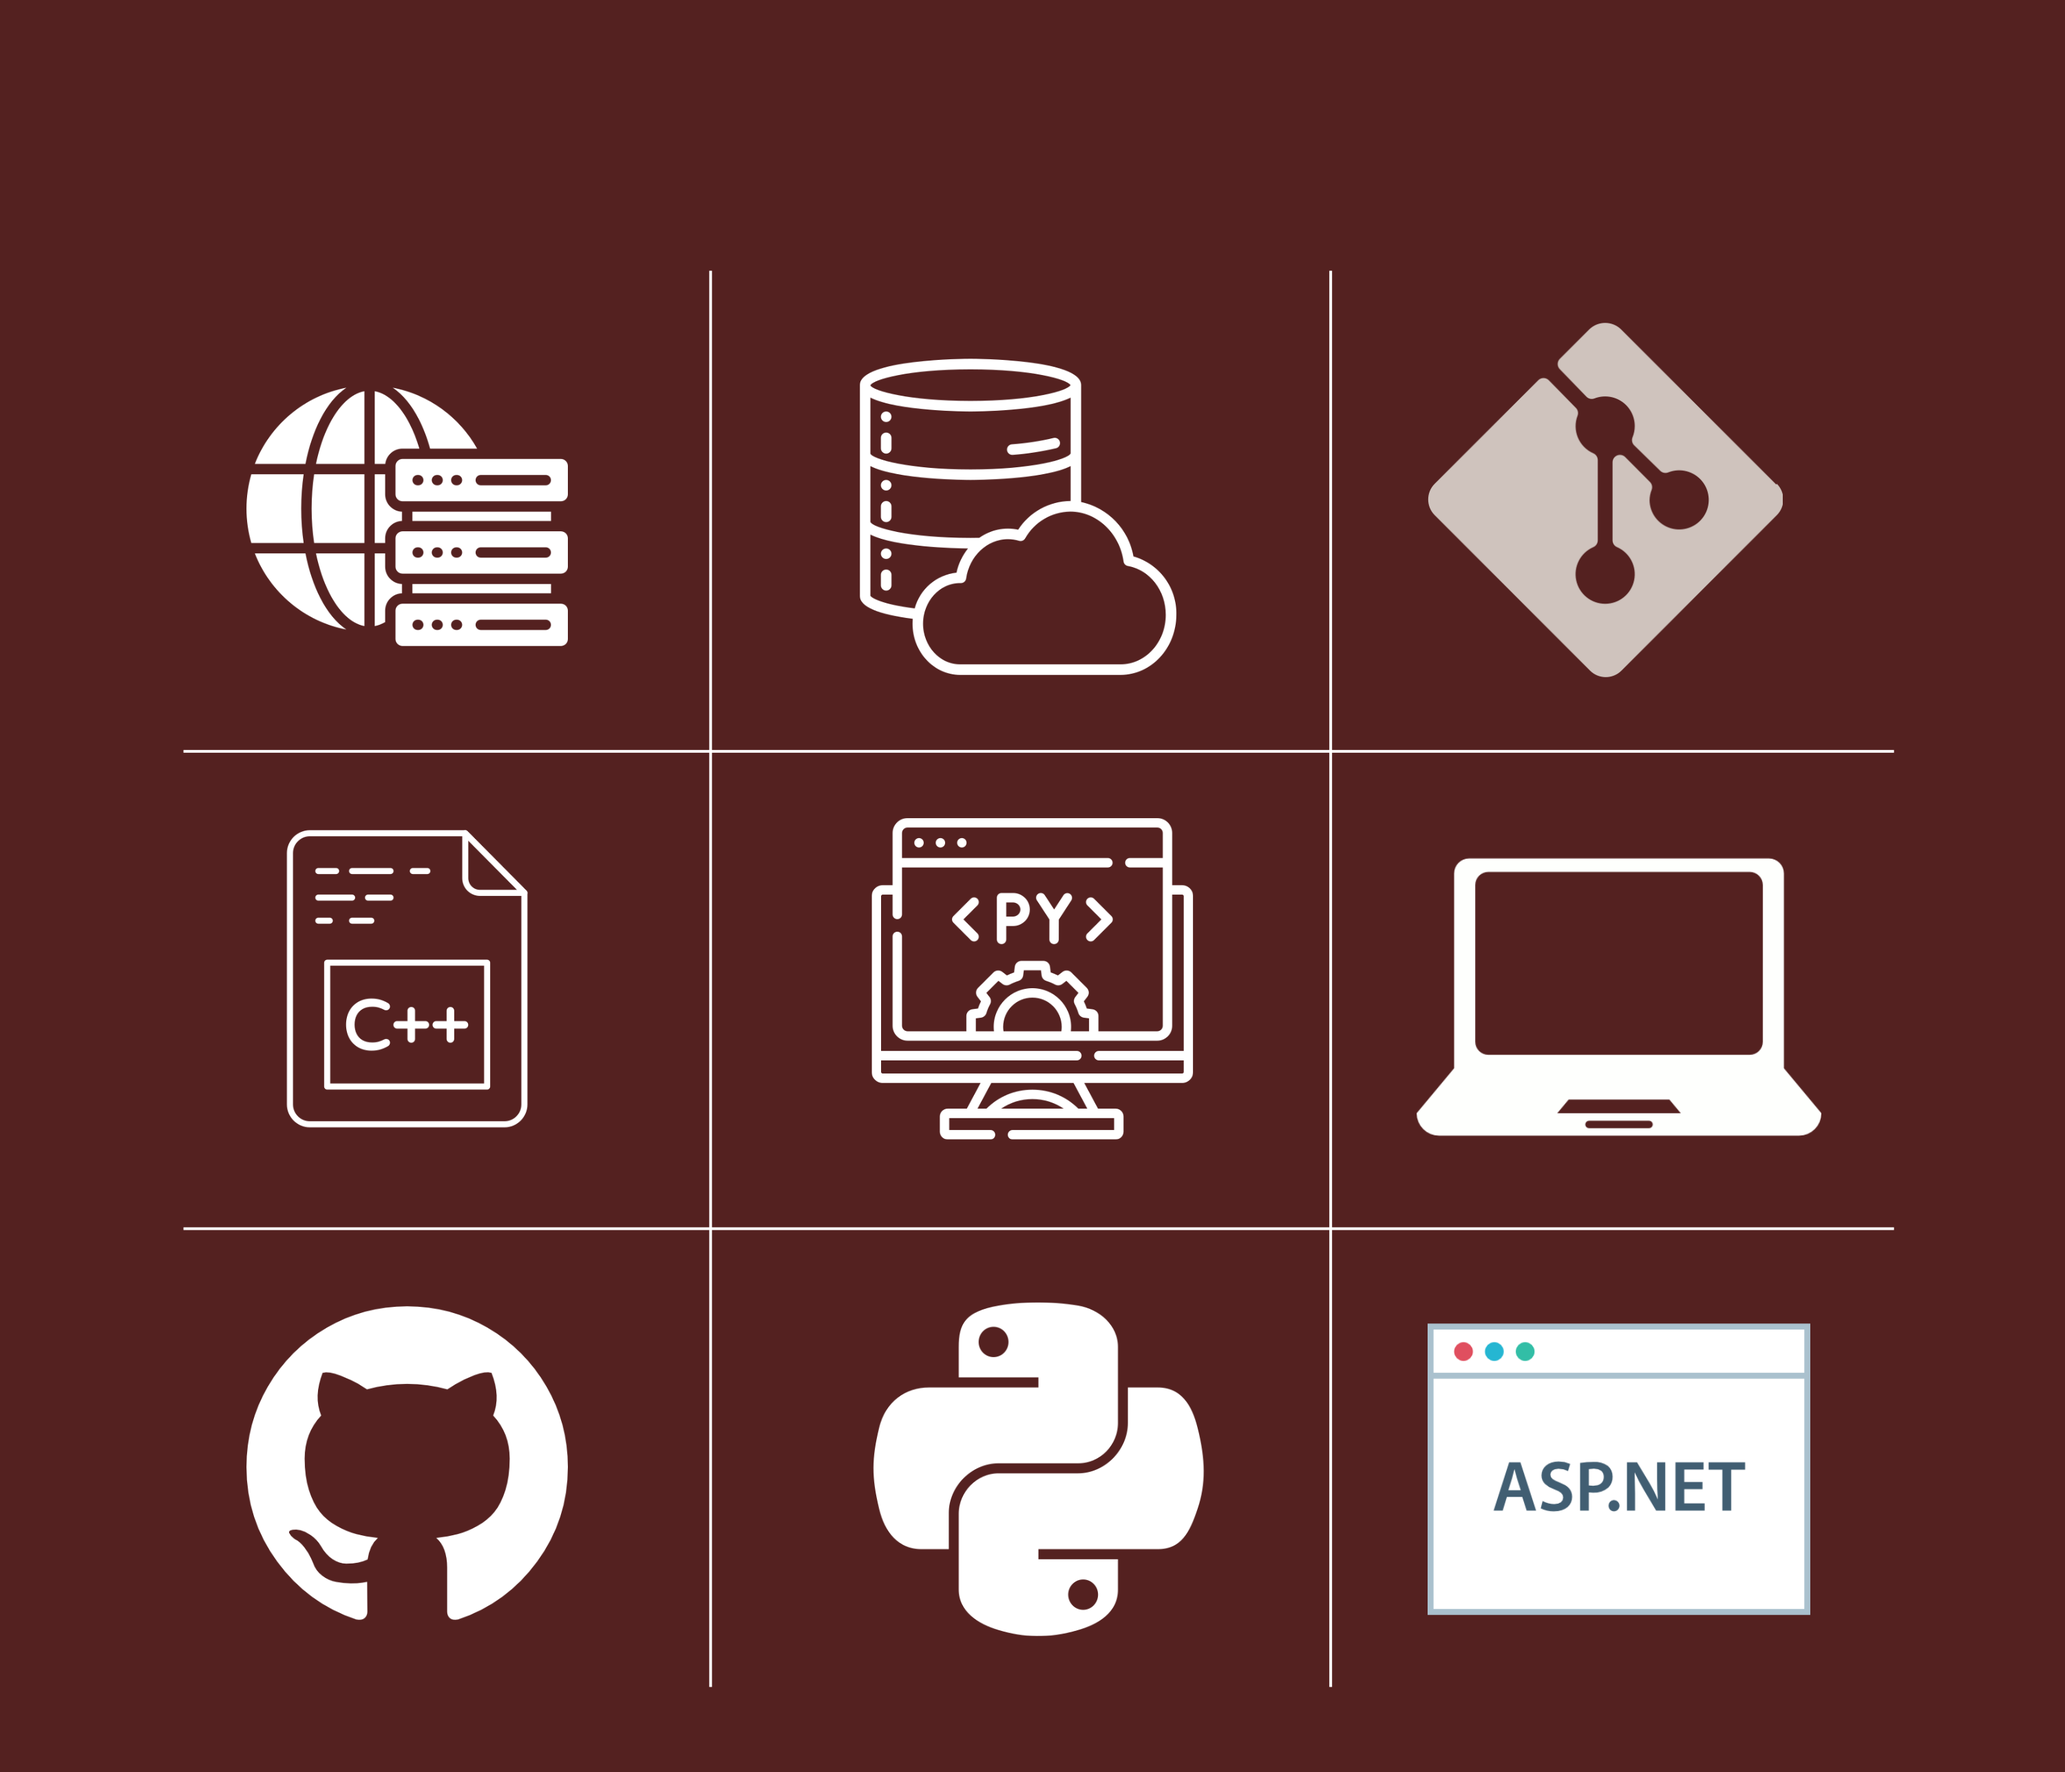
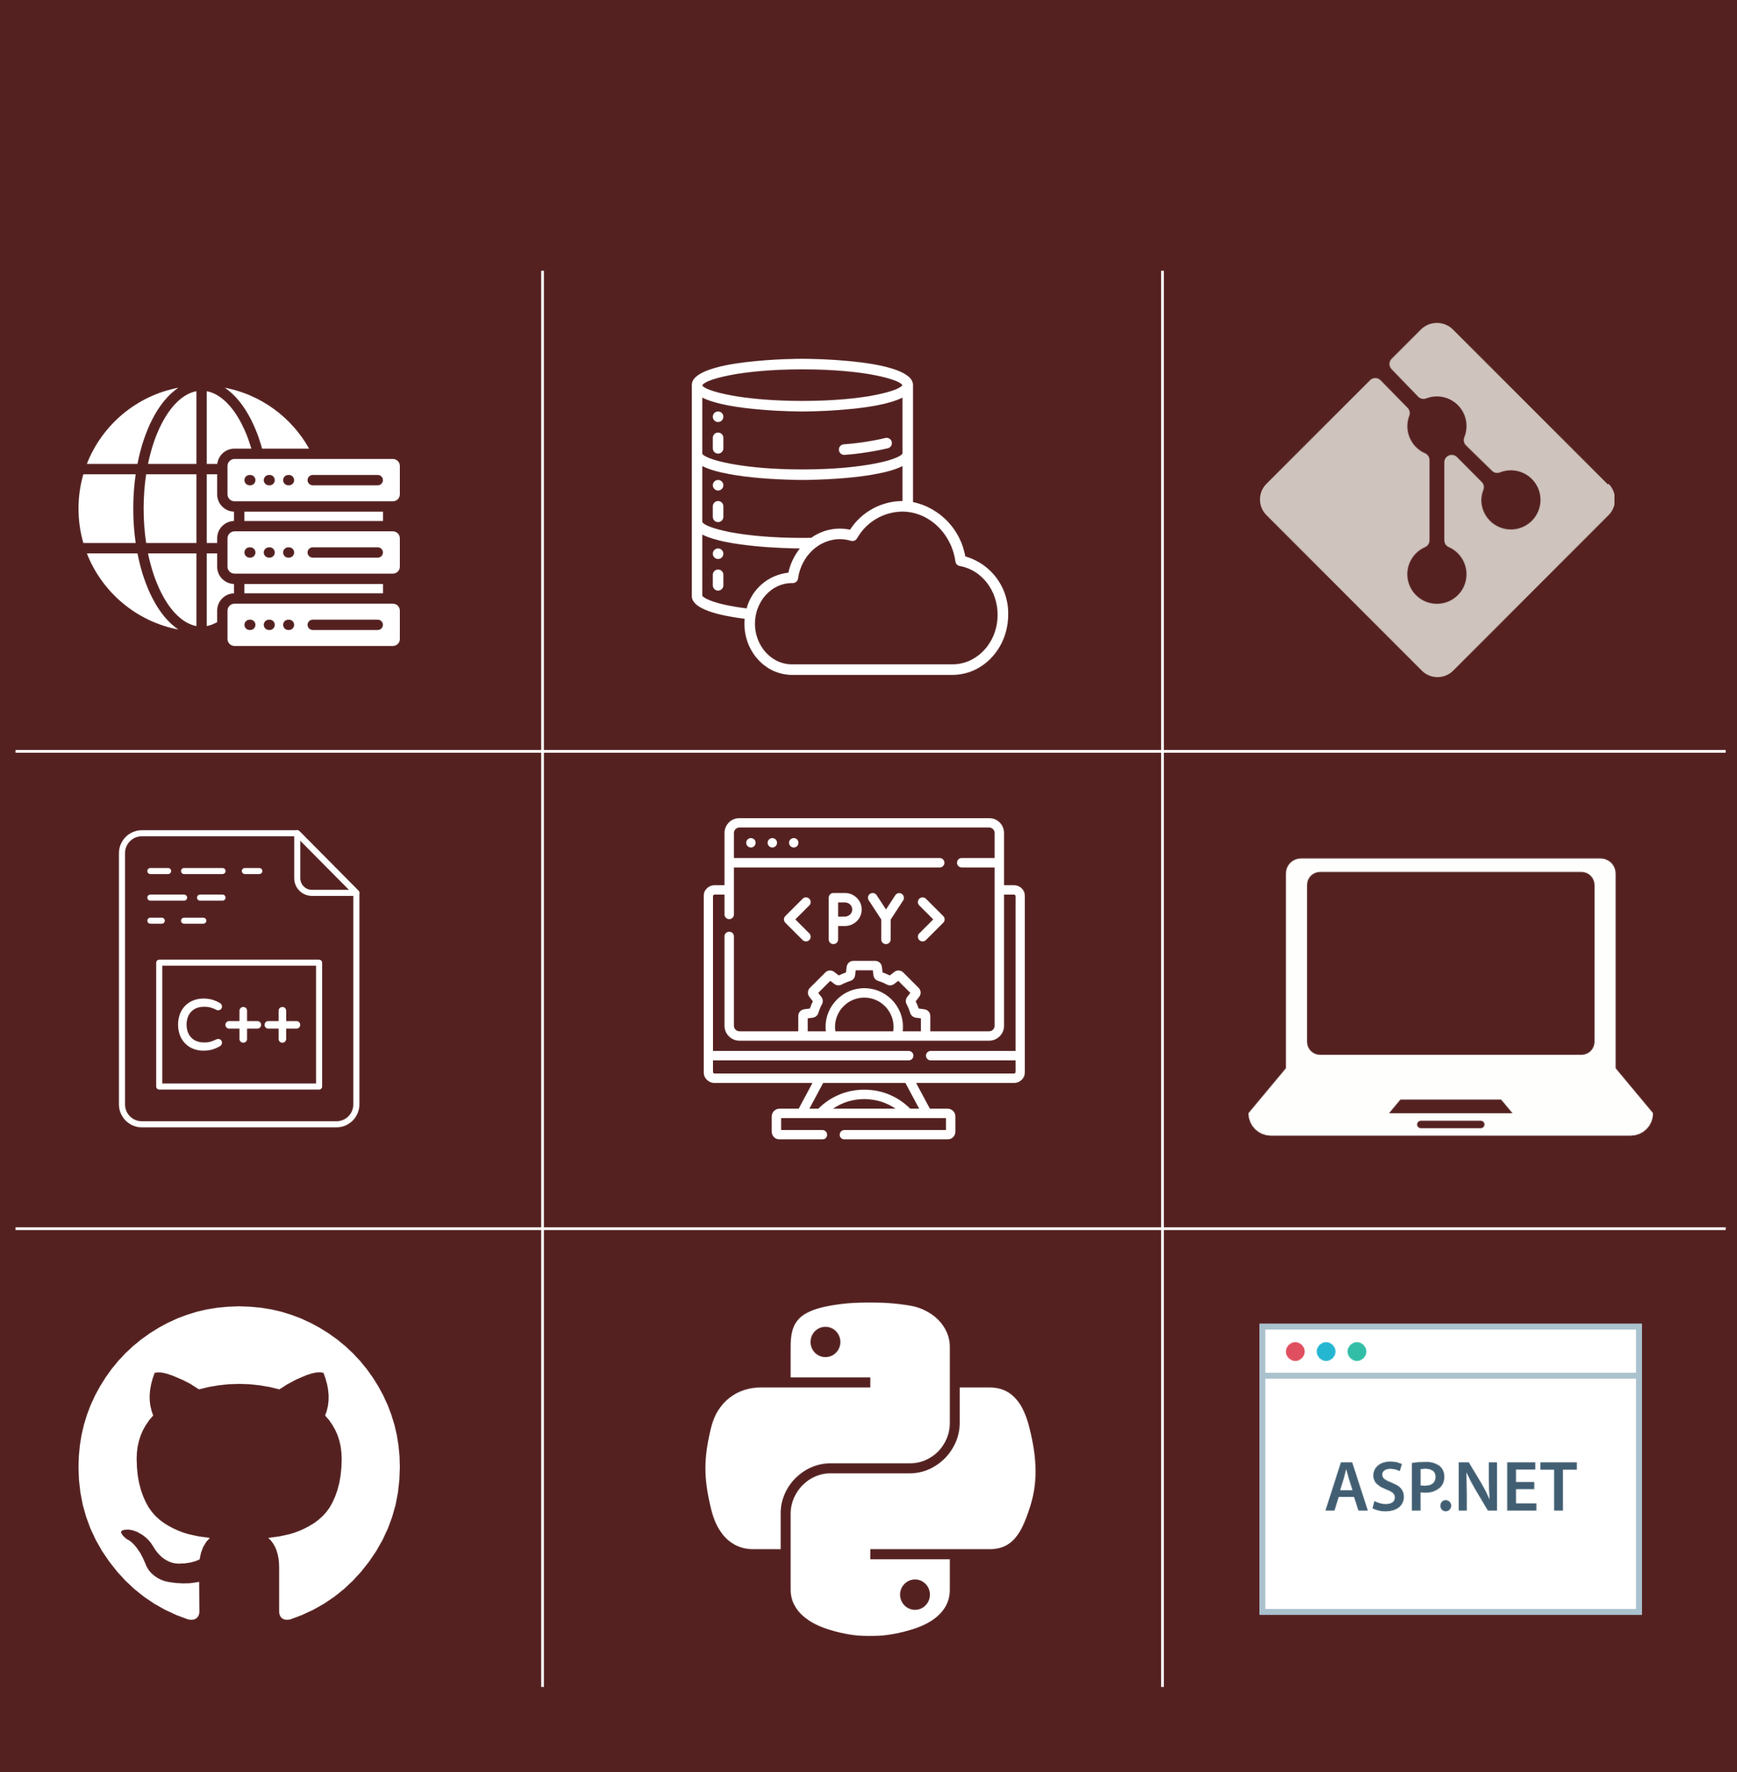
change header structure and styles

diff --git a/index.html b/index.html
@@ -7,7 +7,9 @@
         <meta name="description" content="Portfolio of Ebraheem Ahmed">
         <meta name="author" content="Ebraheem Tammam">
         <!-- css -->
+        <link href="css/shared.css" rel="stylesheet">
         <link href="css/header.css" rel="stylesheet">
+        <link href="css/landing.css" rel="stylesheet">
         <link href="css/main.css" rel="stylesheet">
         <link href="css/progress.css" rel="stylesheet">
         <link href="css/card.css" rel="stylesheet">
@@ -18,44 +20,83 @@
         <link rel="preconnect" href="https://fonts.gstatic.com" crossorigin>
         <link href="https://fonts.googleapis.com/css2?family=Courgette&display=swap" rel="stylesheet">
     </head>
-    <body class="courgette-regular d-flex">
-        <header class="container">
+    <body class="courgette-regular">
+        <header class="background-color-main m-0">
             <nav class="navbar navbar-expand-lg navbar-light pt-lg-4">
                 <button class="navbar-toggler ms-1" type="button" data-bs-toggle="collapse" data-bs-target="#navbar-list" aria-controls="navbar-list" aria-expanded="false" aria-label="Toggle navigation">
                     <span class="navbar-toggler-icon"></span>
                 </button>
-                <div class="nav-list row text-center mx-lg-5 px-lg-5 collapse navbar-collapse" id="navbar-list">
-                    <span class="nav-item col"><a class="color-main active" href="#about">About</a></span>
-                    <span class="nav-item col"><a class="color-main" href="#education">Education</a></span>
-                    <span class="nav-item col"><a class="color-main" href="#skills">Skills</a></span>
-                    <span class="nav-item col"><a class="color-white" href="#participations">Participations</a></span>
-                    <span class="nav-item col"><a class="color-white" href="#projects">Projects</a></span>
-                    <span class="nav-item col"><a class="color-white" href="#contact-me">Contact Me</a></span>
+                <div class="nav-list row gap-0 collapse navbar-collapse mx-0" id="navbar-list">
+                    <span class="nav-item col-2"><a class="color-white active" href="#about">About</a></span>
+                    <!-- <span class="nav-item col"><a class="color-main" href="#education">Education</a></span> -->
+                    <span class="nav-item col-2"><a class="color-white" href="#skills">Skills</a></span>
+                    <span class="nav-item col-2"><a class="color-white" href="#participations">Participations</a></span>
+                    <span class="nav-item col-2"><a class="color-white" href="#projects">Projects</a></span>
+                    <span class="nav-item col-2"><a class="color-white" href="#contact">Contact</a></span>
                 </div>
             </nav>
-            <div class="header-titles container position-absolute ms-lg-5 ps-lg-5 mt-lg-5">
-                <div class="my-name row ms-lg-5 mt-lg-3 ps-lg-2">
-                    <h1 class="color-main">Ebraheem <br> Ahmed <br> Ebraheem</h1>
+        </header>
+        <section class="landing background-color-main">
+            <div class="row m-0 justify-content-center align-items-center">
+                <div class="col-5 titles p-5 p-lg-0">
+                    <div class="my-name row">
+                        <h1 class="color-white">Ebraheem <br> Ahmed <br> Ebraheem</h1>
+                    </div>
+                    <div class="description row mt-4 mt-lg-5">
+                        <h2 class="color-main background-color-white p-3">Fresh Fullstack developer</h2>
+                    </div>
                 </div>
-                <div class="description row ms-lg-5 mt-5 ps-lg-2">
-                    <h2 class="color-white background-color-main p-3">Fresh Fullstack developer</h2>
+                <div class="col-5 figure px-4 mt-0">
+                    <div class="row justify-content-center">
+                        <div class="col-3 icon-holder m-0">
+                            <img class="icon" src="images/host.png">
+                        </div>
+                        <div class="col-3 icon-holder pivot-column m-0">
+                            <img class="icon" src="images/db.png">
+                        </div>
+                        <div class="col-3 icon-holder m-0">
+                            <img class="icon" src="images/git.png">
+                        </div>
+                    </div>
+                    <div class="row justify-content-center pivot-row">
+                        <div class="col-3 icon-holder m-0">
+                            <img class="icon" src="images/cpp.png">
+                        </div>
+                        <div class="col-3 icon-holder pivot-column m-0">
+                            <img class="icon" src="images/py-2.png">
+                        </div>
+                        <div class="col-3 icon-holder m-0">
+                            <img class="icon" src="images/laptop.png">
+                        </div>
+                    </div>
+                    <div class="row justify-content-center m-0">
+                        <div class="col-3 icon-holder m-0">
+                            <img class="icon" src="images/github.png">
+                        </div>
+                        <div class="col-3 icon-holder pivot-column m-0">
+                            <img class="icon" src="images/py-1.png">
+                        </div>
+                        <div class="col-3 icon-holder m-0">
+                            <img class="icon" src="images/asp.png">
+                        </div>
+                    </div>
                 </div>
             </div>
-            <div class="landing d-flex">
-                <div class="base-line first-half text-end pe-5">
-                    <h1 class="color-main">
+            <div class="row mt-5 fun-line">
+                <div class="col text-end pe-5 first-part">
+                    <span class="color-white fs-1">
                         B r i n g &nbsp;&nbsp;&nbsp;&nbsp;
                         f u n
-                    </h1>
+                    </span>
                 </div>
-                <div class="base-line second-half background-color-main ps-5">
-                    <h1 class="color-white">
+                <div class="col text-start ps-5 second-part">
+                    <span class="color-white fs-1">
                         t o &nbsp;&nbsp;&nbsp;&nbsp;
                         c o d e
-                    </h1>
+                    </span>
                 </div>
             </div>
-        </header>
+        </section>
         <main class="m-0">
             <section id="about" class="d-flex m-0">
                 <div class="first-element background-color-main  d-flex align-items-center justify-content-center">

diff --git a/css/header.css b/css/header.css
@@ -1,35 +1,11 @@
 :root {
     --main-color-light: #542120;
 }
-
-.courgette-regular {
-    font-family: "Courgette", cursive;
-    font-weight: 400;
-    font-style: normal;
-}
-
-html, body {
-    height: 100%;
-    margin: 0 !important;
-    padding: 0 !important;
-}
-
-body {
-    flex-direction: column;
-}
-
 /* Start Header */
 header {
-    order: 1;
-    background-image: url("../images/header-image.png");
-    background-size: contain;
-    background-position: right;
-    background-repeat: no-repeat;
-    min-height: 85% !important;
     max-width: 100% !important;
     margin: 0 !important;
     padding: 0 !important;
-    margin-bottom: 8% !important;
 }
 /* Start Navbar */
 .navbar {
@@ -39,55 +15,13 @@ header {
 }
 .nav-item a {
     text-decoration: none;
-    padding: 10px 15px;
     font-size: 1.5em;
 }
 .nav-item a:hover {
     color: #007bff !important;
 }
 /* End Navbar */
-/* Start Header Titles */
-.header-titles {
-    display: block !important;
-}
-.my-name h1 {
-    font-size: 500%;
-    font-weight: bold;
-}
-.description h2 {
-    border-radius: 20px;
-    width: fit-content;
-}
-/* End Header Lines */
 /* End Header */
-/* Start Landing */
-.landing {
-    width: 100%;
-    margin-top: 37.9%;
-    height: 18%;
-}
-.base-line {
-    padding-top: 2.5%;
-}
-.base-line.first-half {
-    width: 47.95% !important;
-}
-.base-line.second-half {
-    width: 52.05%;
-}
-/* End Landing */
-.text-white {
-    color: white !important;
-}
-.color-main {
-    color: var(--main-color-light);
-}
-.background-color-main {
-    background-color: var(--main-color-light);
-}
-.color-white {
-    color: white;
-}
 /* Med Screen */
 @media(max-width: 67.5em) {
     /* Start Header */
@@ -102,25 +36,7 @@ header {
         color: white;
     }
     /* End Navbar */
-    /* Start Header Titles */
-    .header-titles {
-        margin-top: 75% !important;
-    }
-    /* End Header Titles */
     /*End Header */
-    /* Start Landing */
-    .landing {
-        margin-top: 180%;
-        /* border-bottom: 0px; */
-    }
-    .base-line {
-        padding: 5%;
-        width: 50% !important;
-    }
-    .base-line.first-half {
-        border-top: 3px solid #542120;
-    }
-    /* End Landing */
 }
 /* Small Screen */
 @media (max-width: 47.9375em) {
@@ -141,7 +57,7 @@ header {
         margin-left: 0% !important;
         left: 0;
         background-color: white;
-        padding: 10px 0;
+        padding: 10px;
         box-shadow: 0 4px 8px rgba(0, 0, 0, 0.1);
         z-index: 1;
     }
@@ -156,33 +72,5 @@ header {
         color: #ffcc00 !important;
     }
     /* End Navbar */
-    /* Start Header Titles */
-    .header-titles {
-        margin-top: 75% !important;
-        padding-left: 2rem !important;
-    }
-    .my-name h1 {
-        font-size: 4em;
-    }
-    .description h2 {
-        font-size: 1.2em;
-    }
-    .base-line h1 {
-        font-size: 2em;
-    }
-    /* End Header Titles */
     /* End Header */
-    /* Start Landing */
-    .landing {
-        flex-direction: column;
-    }
-    .base-line.first-half {
-        width: 100% !important;
-        text-align: left !important;
-    }
-    .base-line.second-half {
-        width: 100% !important;
-        text-align: right !important;
-    }
-    /* End Landing */
 }

diff --git a/css/landing.css b/css/landing.css
@@ -1,0 +1,91 @@
+/* Start Landing */
+.landing {
+    padding: 3rem;
+}
+.my-name h1 {
+    font-size: 500%;
+    font-weight: bold;
+}
+.description h2 {
+    border-radius: 20px;
+    width: fit-content;
+}
+.icon-holder {
+    width: 10rem !important;
+    height: 10rem !important;
+    margin: 2rem;
+    padding: 2rem;
+    padding-left: 2rem !important;
+    padding-right: 2rem !important;
+}
+.icon {
+    width: 100%;
+    height: 100%;
+}
+.pivot-row {
+    border-top: 2px solid white;
+    border-bottom: 2px solid white;
+}
+.pivot-column {
+    border-left: 2px solid white;
+    border-right: 2px solid white;
+}
+/* End Landing */
+/* Med Screen */
+@media(max-width: 67.5em) {
+    /* Start Landing */
+    .icon-holder {
+        width: 6rem !important;
+        height: 6rem !important;
+        margin: 1rem;
+        padding: 1rem;
+        padding-left: 1rem !important;
+        padding-right: 1rem !important;
+    }
+    /* End Landing */
+}
+/* Small Screen */
+@media (max-width: 47.9375em) {
+    /* Start Landing */
+    .landing {
+        padding: 1rem;
+    }
+    .my-name h1 {
+        font-size: 4em;
+    }
+    .description h2 {
+        font-size: 1.2em;
+    }
+    .base-line h1 {
+        font-size: 2em;
+    }
+    .titles {
+        width: 100% !important;
+    }
+    .description {
+        justify-content: center;
+    }
+    .figure {
+        width: 100% !important;
+    }
+    .icon-holder {
+        width: 6rem !important;
+        height: 6rem !important;
+        margin: 1rem;
+        padding: 1rem;
+        padding-left: 1rem !important;
+        padding-right: 1rem !important;
+    }
+    .fun-line {
+        flex-direction: column;
+    }
+    .fun-line .first-part {
+        text-align: start !important;
+        padding-left: 1.5rem;
+    }
+    .fun-line .second-part {
+        text-align: end !important;
+        padding-right: 1.5rem;
+    }
+    /* End Landing */
+}

diff --git a/css/shared.css b/css/shared.css
@@ -1,0 +1,27 @@
+:root {
+    --main-color-light: #542120;
+}
+.courgette-regular {
+    font-family: "Courgette", cursive;
+    font-weight: 400;
+    font-style: normal;
+}
+html, body {
+    margin: 0 !important;
+    padding: 0 !important;
+}
+.text-white {
+    color: white !important;
+}
+.color-main {
+    color: var(--main-color-light);
+}
+.background-color-main {
+    background-color: var(--main-color-light);
+}
+.background-color-white {
+    background-color: white;
+}
+.color-white {
+    color: white;
+}
